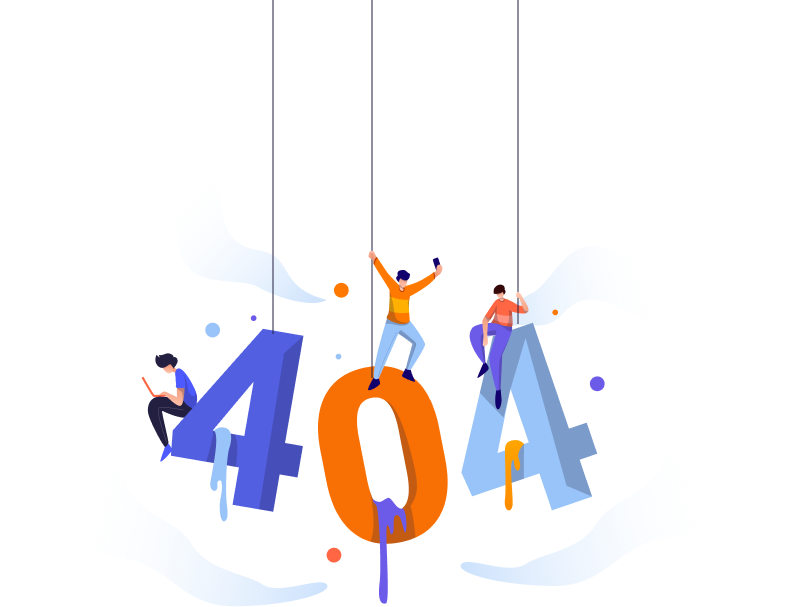
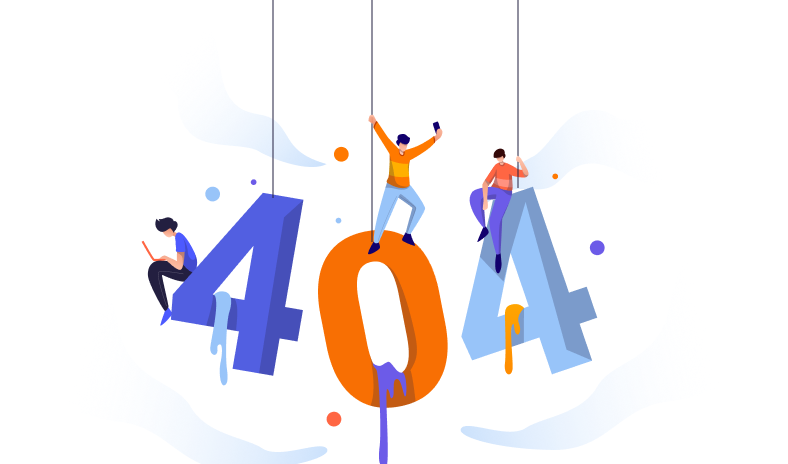
404 Page Not Found Done

diff --git a/src/Components/Home/Page/404/PageNotFound.js b/src/Components/Home/Page/404/PageNotFound.js
@@ -1,0 +1,30 @@
+import { FontAwesomeIcon } from '@fortawesome/react-fontawesome';
+import React from 'react';
+import NotFound from '../../../Assets/404.png'
+import { faArrowRight } from '@fortawesome/free-solid-svg-icons';
+import { Link } from 'react-router-dom';
+
+const PageNotFound = () => {
+ return (
+  <div className='404 relative'>
+   <div className="">
+    <div style={{
+     backgroundImage:
+      `url(${NotFound})`,
+     backgroundRepeat: 'no-repeat', backgroundPosition: 'center',
+     backgroundSize: 'cover', width: '100%',
+     height: '100vh'
+    }}>
+    </div>
+    <div className='back-btn absolute top-1/3 left-2/4 flex justify-center '>
+     <div className=" bg-blue-600 p-2 text-white font-bold text-xl shadow-lg  shadow-slate-100 rounded-xl">
+      <Link to='/home' className="back-to-home "> Back To Home
+       <FontAwesomeIcon className='pl-2' icon={faArrowRight}></FontAwesomeIcon>
+      </Link></div>
+    </div>
+   </div>
+  </div>
+ );
+};
+
+export default PageNotFound;

diff --git a/src/App.js b/src/App.js
@@ -10,6 +10,7 @@ import About from './Components/Home/Page/About/About'
 import Contact from './Components/Home/Page/Contact/Contact'
 import Footer from './Components/Shared/Footer/Footer';
 import Navigation from './Components/Shared/Header/Navigation';
+import PageNotFound from './Components/Home/Page/404/PageNotFound';
 
 const App = () => {
   return (
@@ -26,6 +27,7 @@ const App = () => {
         <Route path='/contact' element={<Contact></Contact>}></Route>
         <Route path='/login' element={<Login></Login>}></Route>
         <Route path='/singup' element={<SingUp></SingUp>}></Route>
+        <Route path='*' element={<PageNotFound></PageNotFound>}></Route>
       </Routes>
       <Footer></Footer>
     </div>
